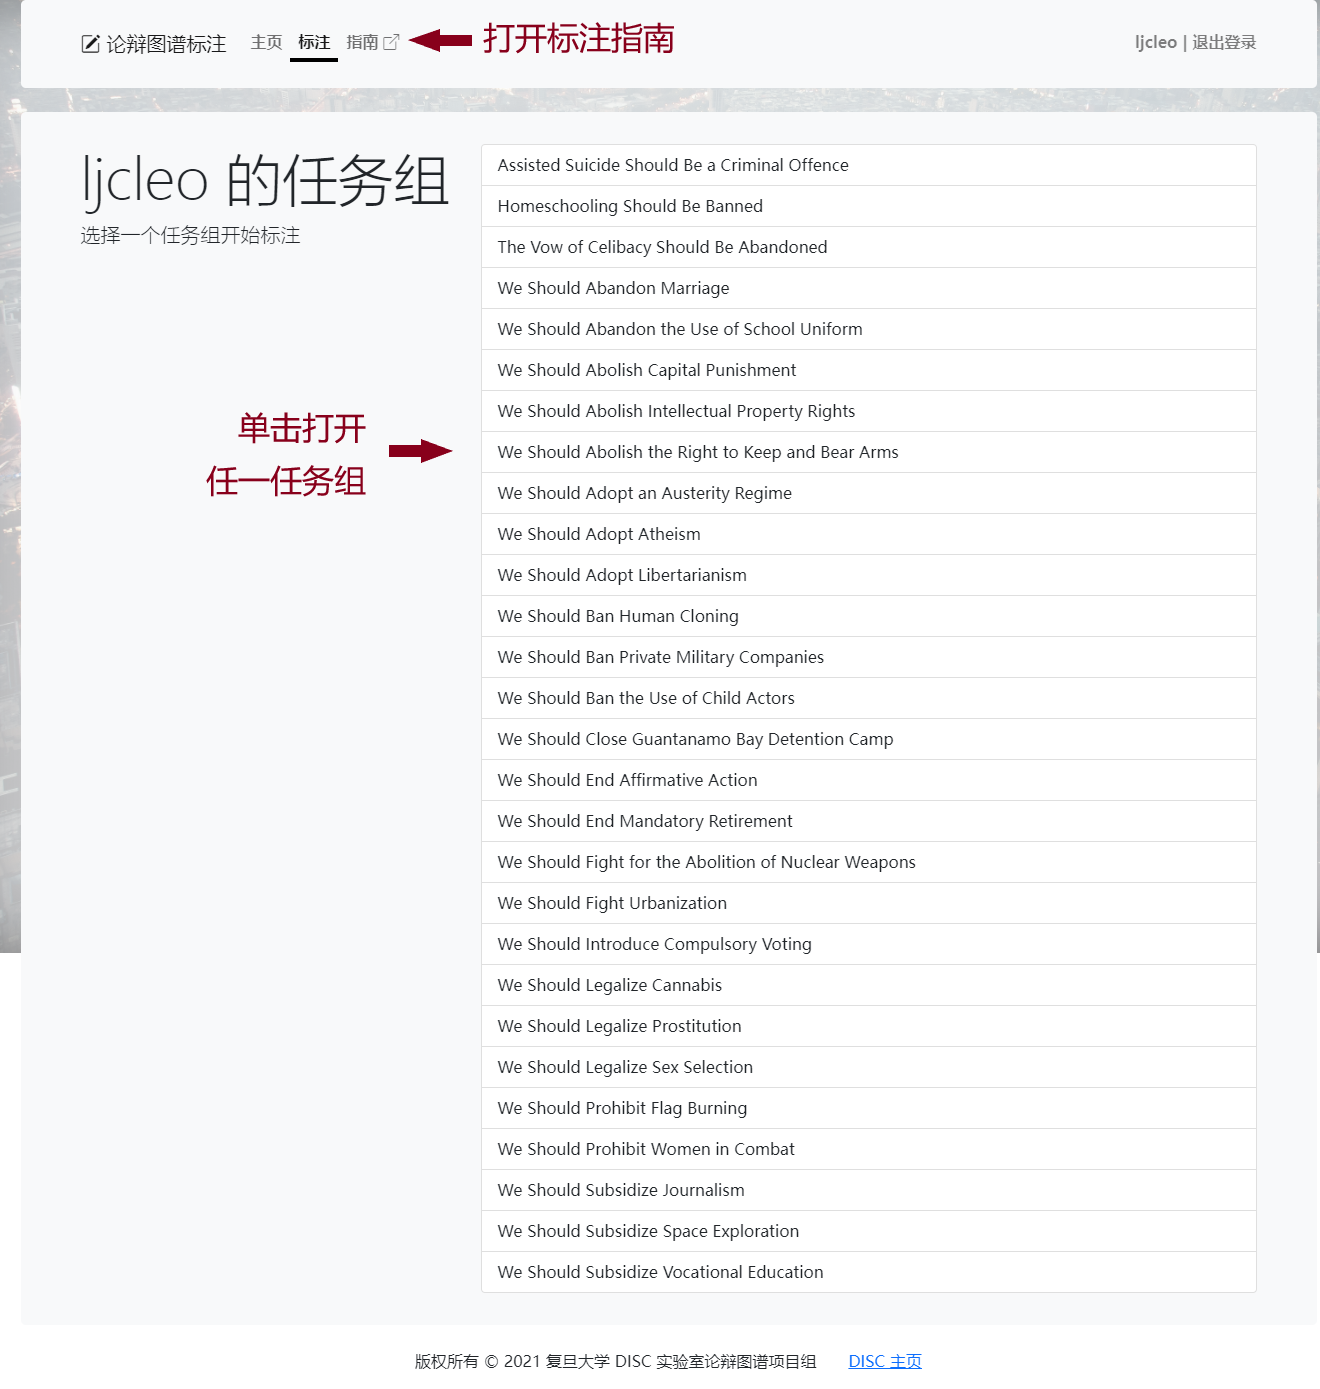
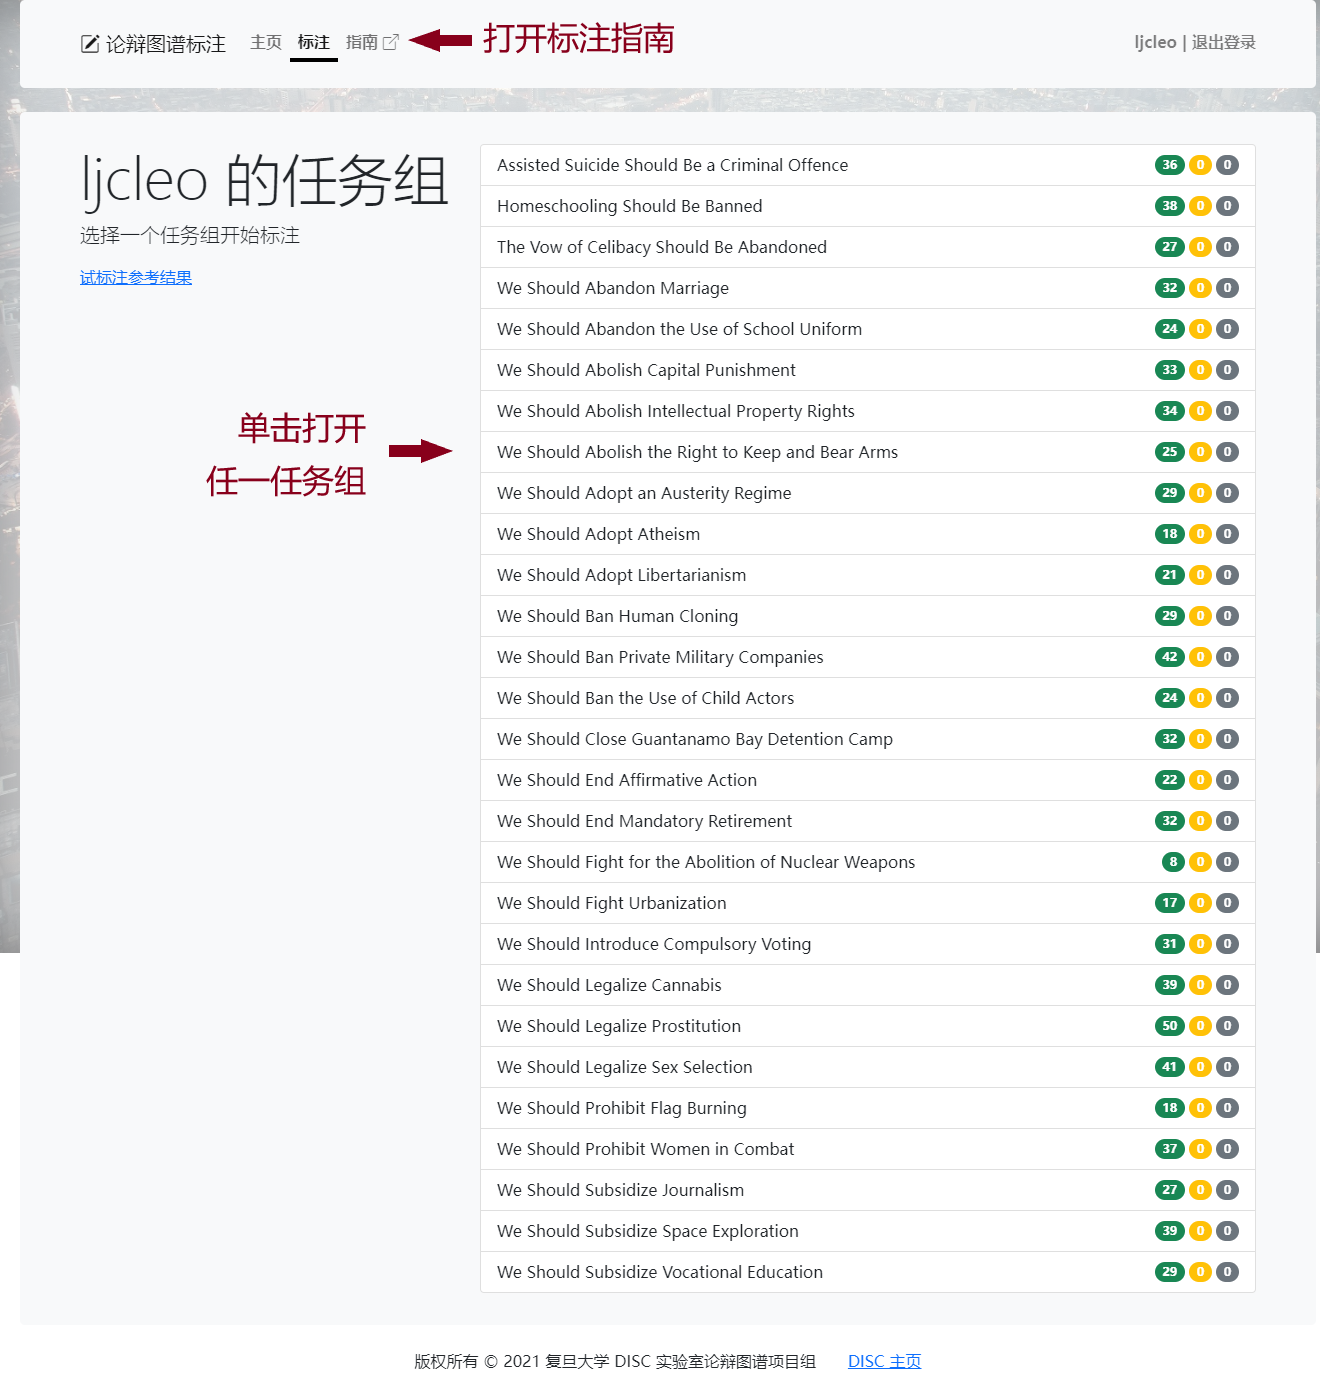
update guideline for new function

diff --git a/docs/website.md b/docs/website.md
@@ -8,13 +8,17 @@
 
 <img src="../img/未登录主页.png" alt="未登录主页" width="40%"/><img src="../img/已登录主页.png" alt="已登录主页" width="40%"/>
 
-## 任务组与标注界面
+## 任务组
 
-点击“开始标注”后，网页将展示您的账号所分配到的任务组，如下图所示。点击选择一个任务组，即可进入对应任务组的标注页面，并自动跳转至上次离开该任务组时正在标注的任务（新用户或网站更新后第一次访问会跳转至第一个任务）。点击导航栏上的“指南”按钮同样可以在新标签打开本指南。
+点击“开始标注”后，网页将展示您的账号所分配到的任务组，如下图所示。其中，每个任务组会显示其名称与标注状态：绿色表示完成标注的任务，黄色表示标注为 Unknown Roleset 的任务，灰色表示未标注的任务（详情见[任务跳转](#_11)）。
 
 <img src="../img/任务组.png" alt="任务组" width="80%"/>
 
-标注界面各个组件的意义与功能如下图所示：
+点击选择一个任务组，即可进入对应任务组的标注页面，并自动跳转至上次离开该任务组时正在标注的任务（新用户或网站更新后第一次访问会跳转至第一个任务）。点击导航栏上的“指南”按钮同样可以在新标签打开本指南。点击左侧的“试标注参考结果”可以查看两次试标注任务的参考结果，其中黄色高亮部分表示用户标注与参考标注的差异。
+
+## 标注界面
+
+标注界面各个组件的意义与功能如下图所示，详情见[操作流程](#_5)：
 
 <img src="../img/未标注界面.png" alt="未标注界面" width="80%"/>
 
@@ -53,8 +57,8 @@
 #### 快捷编辑
 
 - 点击“清除选择”可重置选择范围，重新选择；
-- 点击“撤销修改”，可以还原上次保存结果（注意每次离开本页面，网页都会自动保存任务，因此该功能仅限于撤销最近一次显示本页面或手动保存后的所有修改）；
-- 点击“重置为初始状态”，可以删除除“REL”以外的所有标签，并重置角色集选项为 Not Annotated。
+- 点击“撤销”可以回退到上一步，点击“恢复”可以重新应用撤销的更改；撤销与恢复的历史记录仅限进入页面后的操作，离开页面后历史记录自动清除；
+- 点击“重置任务”，可以删除除“REL”以外的所有标签，并重置角色集选项为未标注状态。
 
 ### 任务操作
 
@@ -72,7 +76,7 @@
 
 #### 任务保存
 
-中间的工具栏可供任务保存，其中点击“保存当前任务”，可即时保存当前任务；点击“保存并返回”或导航栏上的“标注”按钮，可以保存任务并回到任务组选择界面。
+中间的工具栏可供任务保存，其中点击“保存任务”，可即时保存当前任务；点击“保存并返回”或导航栏上的“标注”按钮，可以保存任务并回到任务组选择界面。
 
 #### 错误反馈
 
